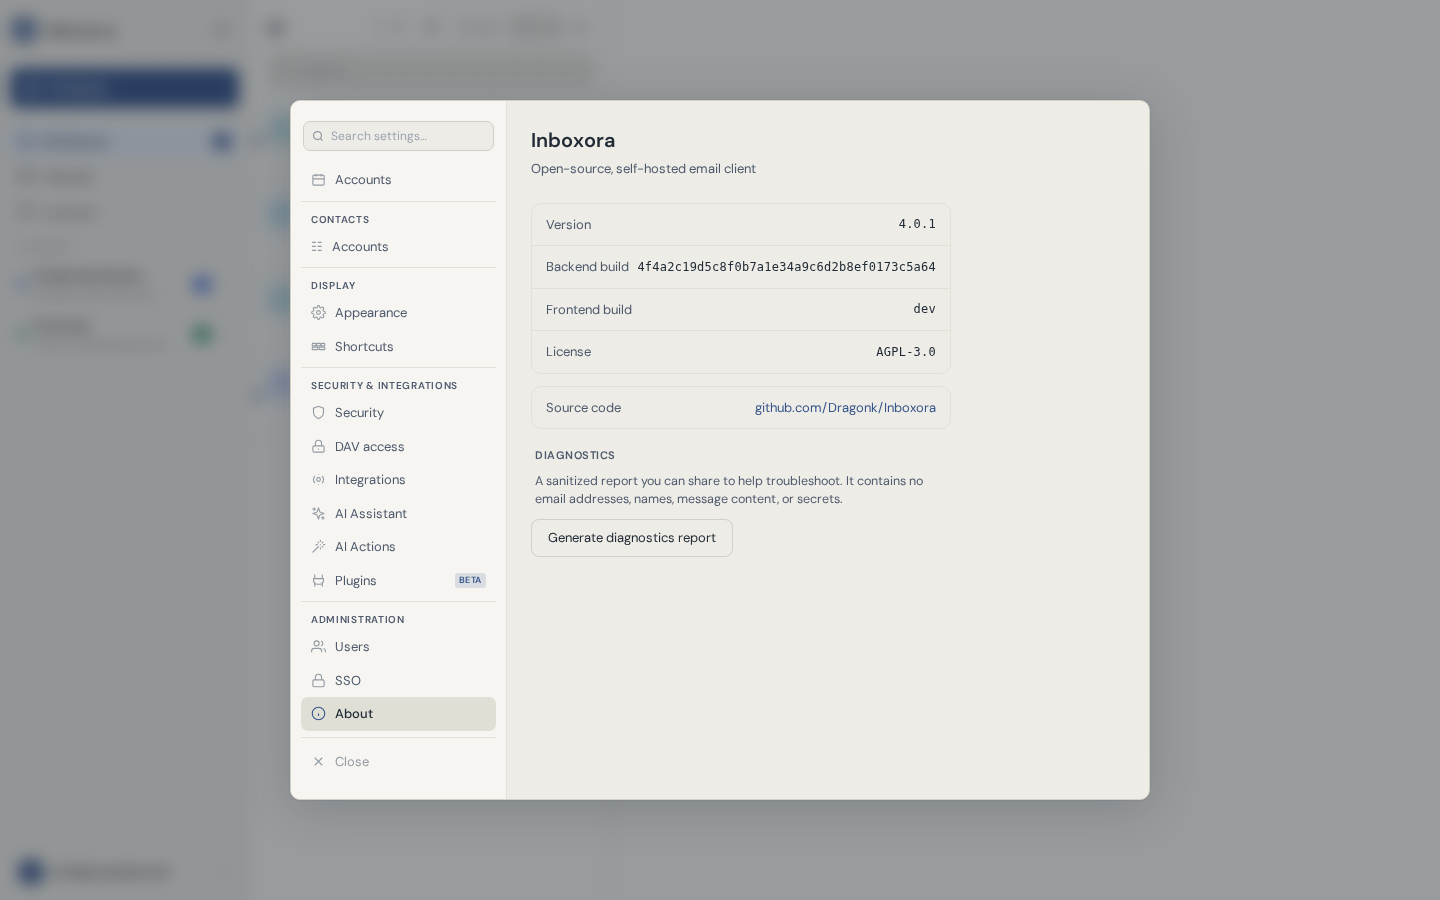
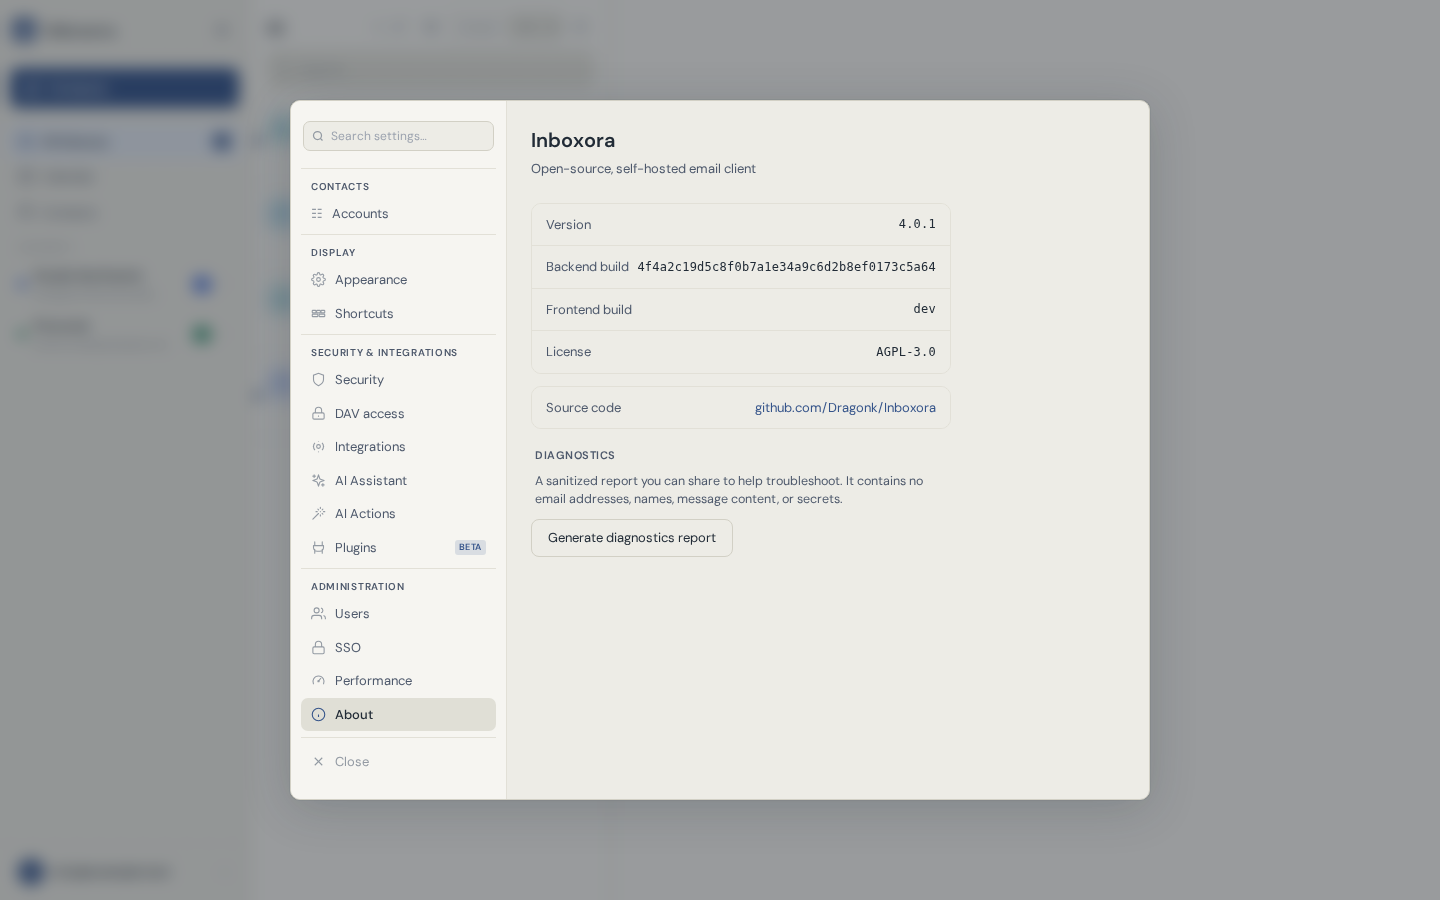
test(mail): await stale settings responses and refresh admin screenshots
Verify the old PATCH has completed before asserting that a remounted editor retains its dirty state. Refresh the two affected documentation captures for the new Performance tab without relaxing visual thresholds.

Assisted-by: GPT-6 Astra Pro

Changed region(s): [[0.2188, 0.1867, 0.3125, 0.4978], [0.2188, 0.5289, 0.2812, 0.8089], [0.3125, 0.5911, 0.3438, 0.6533]]

diff --git a/frontend/e2e/admin-prefetch.spec.ts b/frontend/e2e/admin-prefetch.spec.ts
@@ -72,9 +72,15 @@ test('an old pending save cannot update a remounted settings editor',async({page
   await expect.poll(()=>pending).toBe(true);
   await page.getByTestId('admin-tab-appearance').click();await page.getByTestId('admin-tab-performance').click();
   await expect(page.getByTestId('mail-prefetch-limit')).toHaveValue('25');
+  const input=page.getByTestId('mail-prefetch-limit');
+  const save=page.getByTestId('mail-prefetch-settings').getByRole('button',{name:/^Zapisz$|^Save$/});
+  const oldSaveResponse=page.waitForResponse(response=>response.request().method()==='PATCH' && response.url().includes('/api/admin/settings'));
+  // Using the old submitted value makes a stale savedValue disable Save.
+  await input.fill('30');await expect(save).toBeEnabled();
   release();
-  // A fresh edit after the old response should not inherit "saved" or old values.
-  await page.getByTestId('mail-prefetch-limit').fill('20');
+  const response=await oldSaveResponse;await response.finished();
+  // Let the fetch continuation and React commit run before checking old results.
+  await page.evaluate(()=>new Promise<void>(resolve=>requestAnimationFrame(()=>requestAnimationFrame(()=>resolve()))));
   await expect(page.getByTestId('mail-prefetch-saved')).toHaveCount(0);
-  await expect(page.getByTestId('mail-prefetch-limit')).toHaveValue('20');
+  await expect(input).toHaveValue('30');await expect(save).toBeEnabled();
 });
